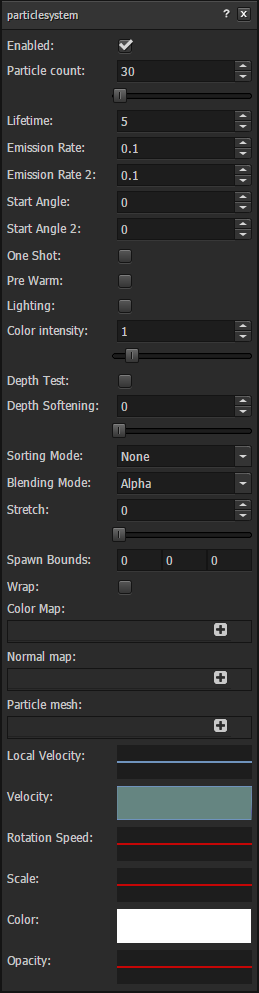
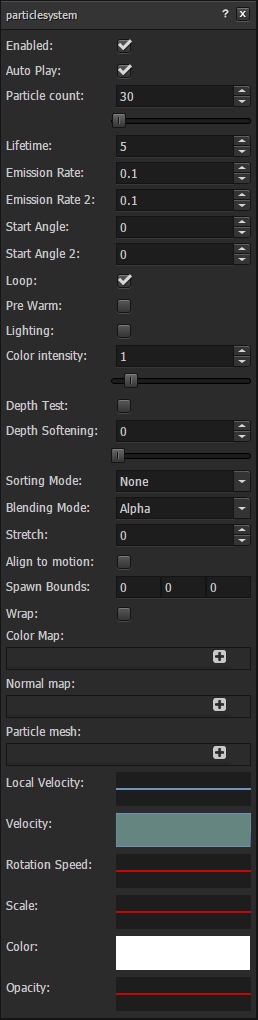
Updated particle system component docs to reflect latest UI.

diff --git a/content/user-manual/packs/entities/components/particlesystem.md b/content/user-manual/packs/entities/components/particlesystem.md
@@ -15,23 +15,38 @@ The 'particlesystem' component specifies particle emitter in 3D space.
     <col class="property-description"></col>
     <tr><th>Property</th><th>Description</th></tr>
     <tr><td>Enabled</td><td>If checked, the particle system will be added to the scene and rendered.</td></tr>
-    <tr><td>Particle Count</td><td></td></tr>
-    <tr><td>Lifetime</td><td></td></tr>
-    <tr><td>Emission Rate</td><td></td></tr>
-    <tr><td>Emission Rate 2</td><td></td></tr>
-    <tr><td>Start Angle</td><td></td></tr>
-    <tr><td>Start Angle 2</td><td></td></tr>
-    <tr><td>One Shot</td><td></td></tr>
-    <tr><td>Pre Warm</td><td>If enabled, the particle system will be initialized as though it had already completed a full cycle (only works if One Shot is unchecked).</td></tr>
-    <tr><td>Lighting</td><td></td></tr>
-    <tr><td>Half-Lambert</td><td></td></tr>
-    <tr><td>Color Intensity</td><td></td></tr>
-    <tr><td>Depth Test</td><td></td></tr>
-    <tr><td>Depth Softening</td><td></td></tr>
-    <tr><td>Sorting Mode</td><td></td></tr>
-    <tr><td>Blending Mode</td><td></td></tr>
-    <tr><td>Stretch</td><td></td></tr>
-    <tr><td>Spawn Bounds</td><td></td></tr>
+    <tr><td>Auto Play</td><td>If checked, the particle system will play immediately on creation. If this option is left unchecked, you will need to call the particle system component's play function from script.</td>
+    <tr><td>Particle Count</td><td>The maximum number of particles managed by this particle system.</td></tr>
+    <tr><td>Lifetime</td><td>The length of time in seconds between a particle's birth and its death.</td></tr>
+    <tr><td>Emission Rate</td><td>The lower bound of the time range defining the interval between particle births. The time for the next particle emission will be chosen at random between 'Emission Rate' and 'Emission Rate 2'.</td></tr>
+    <tr><td>Emission Rate 2</td><td>The upper bound of the time range defining the interval between particle births. The time for the next particle emission will be chosen at random between 'Emission Rate' and 'Emission Rate 2'.</td></tr>
+    <tr><td>Start Angle</td><td>The lower bound of the initial particle rotation specified in degrees. For each particle, this angle is chosen at random between 'Start Angle' and 'Start Angle 2'.</td></tr>
+    <tr><td>Start Angle 2</td><td>The upper bound of the initial particle rotation specified in degrees. For each particle, this angle is chosen at random between 'Start Angle' and 'Start Angle 2'.</td></tr>
+    <tr><td>Loop</td><td>If checked, the particle system will emit indefinitely. Otherwise, it will emit the number of particles specified by the 'Particle Count' property and then stop.</td></tr>
+    <tr><td>Pre Warm</td><td>If enabled, the particle system will be initialized as though it had already completed a full cycle. This option is only available for looping particle systems.</td></tr>
+    <tr><td>Lighting</td><td>If checked, the particle will be lit by the dynamic lights in the scene. In some circumstances, it may be advisable to set a normal map on the particle system in order to achieve more realistic lighting.</td></tr>
+    <tr><td>Half-Lambert</td><td>Enabling Half Lambert lighting avoids particles looking too flat when lights appear to be shining towards the back sides of the particles. It is a completely non-physical lighting model but can give more pleasing visual results. This option is only available when Lighting is enabled.</td></tr>
+    <tr><td>Color Intensity</td><td>Scales the color of particles to allow them to have arbitrary brightness.</td></tr>
+    <tr><td>Depth Test</td><td>If checked, the particles will write depth information to the depth buffer. If unchecked, the depth buffer is left unchanged and particles will be guaranteed to overwrite one another in the order in which they are rendered.</td></tr>
+    <tr><td>Depth Softening</td><td>This variable value determines how much particles fade out as they get closer to another surface. This avoids the situation where particles appear to cut into surfaces.</td></tr>
+    <tr><td>Sorting Mode</td><td>Sorting mode gives you control over the order in which particles are rendered. The options are:
+        <ul>
+            <li>None: Particles are rendered in arbitrary order. When this option is selected, the particle system is simulated on the GPU and it is recommended you use this setting to get the best performance.</li>
+            <li>Camera Distance: Particles are sorted on the CPU and rendered in back to front order (in terms of camera z depth).</li>
+            <li>Newer First: Particles are rendered in age order, youngest first.</li>
+            <li>Older First: Particles are rendered in age order, oldest first.</li>
+        </ul>
+    </td></tr>
+    <tr><td>Blending Mode</td><td>The blending mode determines how particles are composited when they are written to the frame buffer. Let's consider that Prgb is the RGB color of a particle's pixel, Pa is its alpha value, and rgb is the RGB color already in the frame buffer. The blending options are:
+        <ul>
+            <li>Additive: Prgb + Drgb</li>
+            <li>Alpha: Prgb x Pa + Drgb x (1 - Pa)</li>
+            <li>Multiply: Prgb + Drgb x (1 - Pa)</li>
+        </ul>
+    </td></tr>
+    <tr><td>Stretch</td><td>A value that controls the amount by which particles are stretched along their height.</td></tr>
+    <tr><td>Align To Motion</td><td>Orient particle in their direction of motion. This option is especially useful when enabling particle stretching.</td></tr>
+    <tr><td>Spawn Bounds</td><td>The half extents of a local space bounding box within which particles are spawned at random positions.</td></tr>
     <tr><td>Wrap</td><td></td></tr>
     <tr><td>Wrap Bounds</td><td></td></tr>
     <tr><td>Color Map</td><td>The color map texture to apply to all particles in the system. If no texture asset is assigned, a default spot texture is used.</td></tr>
